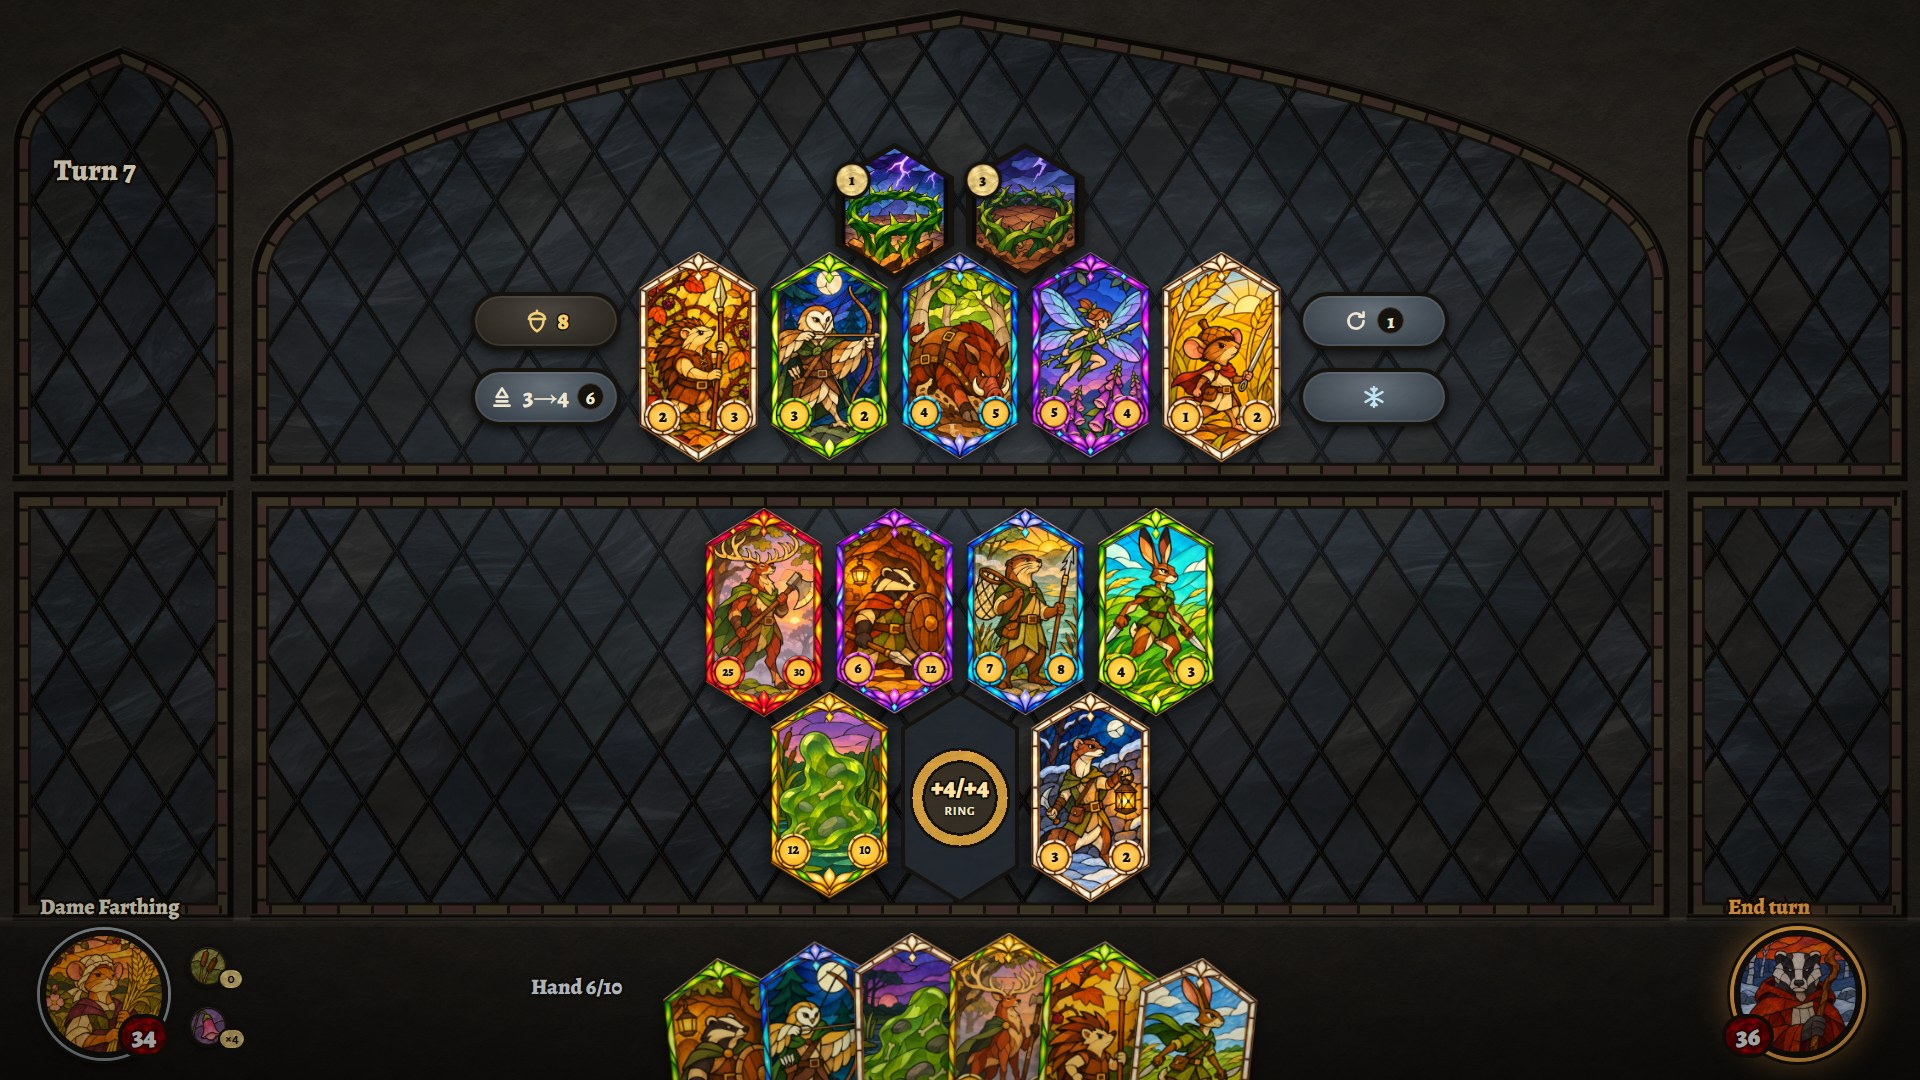
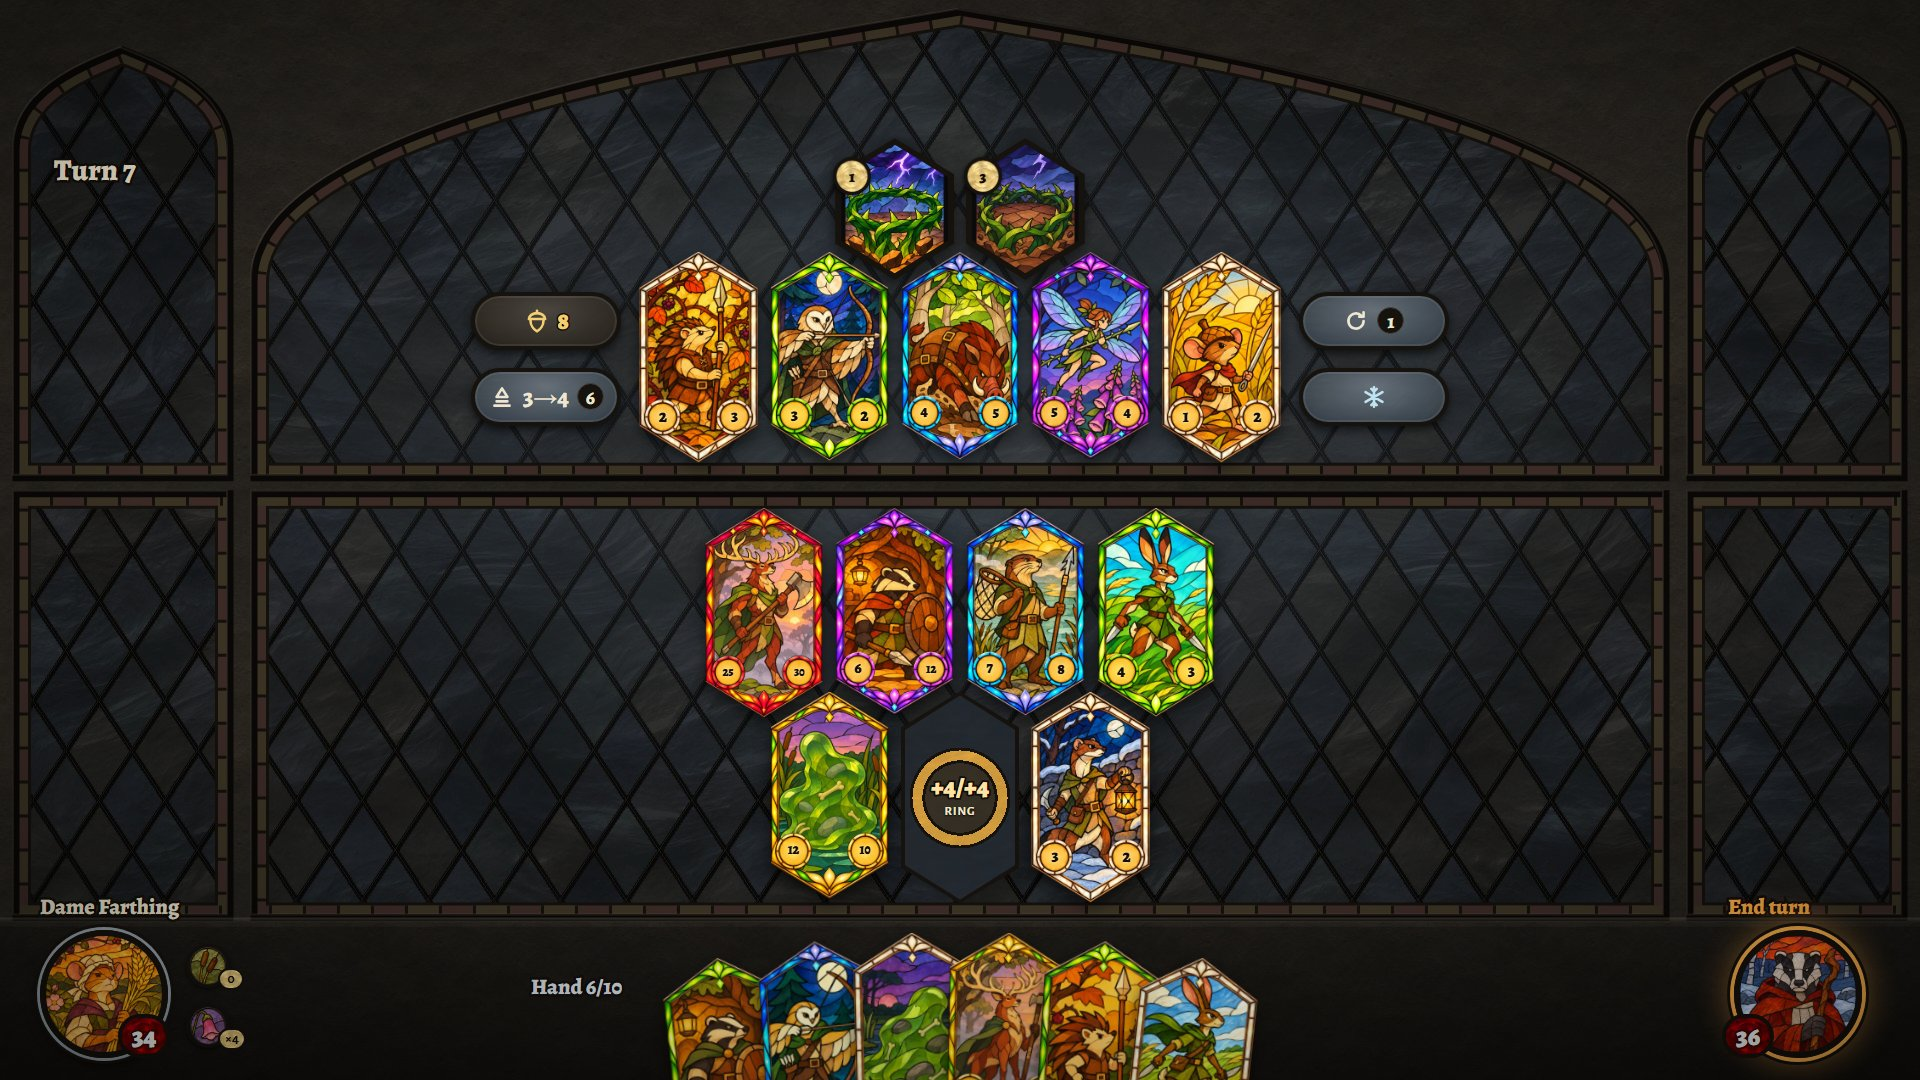
Card shape: record the 1.3 degree roof bug; mock-up spells match the cards' 31.3 degrees for now (owner, 16 Nov)
The owner: spells stay regular hexagons; the cards' roofs are off by 1.3 degrees, "a bug on the
card side, not on the spells side", to be fixed later. Until then the spells' slopes match the
cards' roofs (31.3, not the 28.7 first said), all six edges a roof edge long. Regular 30 is a switch.

Changed region(s): [[0.4375, 0.1222, 0.5625, 0.2444]]

diff --git a/docs/design/art-direction/mockups/recruit.html b/docs/design/art-direction/mockups/recruit.html
@@ -15,6 +15,7 @@
   <h1>Recruit screen</h1>
   <div class="grp">Card size <button data-k="size" data-v="a">212 px tall</button><button data-k="size" data-v="b">250 px tall (chosen)</button></div>
   <div class="grp">Spells <button data-k="spells" data-v="above">Row above</button><button data-k="spells" data-v="inline">In the shop row</button></div>
+  <div class="grp">Spell slopes <button data-k="sp" data-v="match">Match the cards' 31.3° (for now)</button><button data-k="sp" data-v="regular">Regular, 30°</button></div>
   <div class="grp">Leaderboard <button data-k="lb" data-v="0">Hidden</button><button data-k="lb" data-v="1">Shown</button></div>
   <div class="grp">Hover <button data-k="hover" data-v="">None</button><button data-k="hover" data-v="b0">Board card</button><button data-k="hover" data-v="s2">Shop card</button><button data-k="hover" data-v="s5">Spell</button></div>
   <div class="note">Real frames, recipe art and per-tier number discs. Stand-ins: the two spells (no spell frame yet), hover text, names and numbers. The art is the art session's test set, not decided units.</div>
@@ -25,7 +26,7 @@
 <script src="stage.js"></script>
 <script>
 const Q = new URLSearchParams(location.search);
-const S = { size: Q.get("size") || "b", spells: Q.get("spells") || "above", lb: Q.get("lb") || "0", hover: Q.get("hover") ?? "" };
+const S = { size: Q.get("size") || "b", spells: Q.get("spells") || "above", sp: Q.get("sp") || "match", lb: Q.get("lb") || "0", hover: Q.get("hover") ?? "" };
 
 // ---- the game state shown (stand-in numbers; the art is the recipe's test set) ----
 const SHOP = [
@@ -58,9 +59,13 @@ const HAND = [
 const BYID = Object.fromEntries([...SHOP, ...BOARD.filter(Boolean), ...HAND].map(c => [c.id, c]));
 
 // ---- geometry: everything follows the card height H ----
-function geom(H, above) {
+function geom(H, above, match) {
   const W = H * 0.56, g = 12, sg = 28;            // gap between cards; extra gap before in-line spells
-  const SW = W, SH = W / (Math.sqrt(3) / 2);       // spells above the shop: regular hexes the units' width (owner, 15 Nov)
+  // spells above the shop: regular hexes the units' width (owner, 15 Nov). The cards' roofs slope at 31.3°, not a
+  // regular hexagon's 30°: a bug on the card side, to be fixed in the frames (owner, 16 Nov). Until then the spell
+  // matches them: its slopes are the cards' roofs (0.17 H deep over half a width) and all six edges are that long.
+  const roof = 0.17 * H, edge = Math.hypot(W / 2, roof);
+  const SW = W, SH = match ? 2 * roof + edge : W / (Math.sqrt(3) / 2), SS = match ? roof / SH : 0.25;
   // how much of a hand card stands above the screen's edge; with spells above, it gives way so the spell row
   // stays clear of the arch (spell tops at y 48 or lower)
   let handShow = 0.7 * H;
@@ -76,11 +81,11 @@ function geom(H, above) {
   const shopW = above ? 5 * W + 4 * g : 7 * W + 5 * g + sg;
   const shopL = 960 - shopW / 2;
   const sideW = 214, cL = 16 + sideW + 24, cR = 1904 - sideW - 24, ys = Math.max(shopTop + 30, 90);
-  return { H, W, g, sg, SH, SW, ys, above, handTop, sill, boardTop, boardBot, T0, T1, shopTop, shopBot, shopL, shopW, cL, cR, sideW };
+  return { H, W, g, sg, SH, SW, SS, ys, above, handTop, sill, boardTop, boardBot, T0, T1, shopTop, shopBot, shopL, shopW, cL, cR, sideW };
 }
 
 function render() {
-  const H = S.size === "b" ? 250 : 212, G = geom(H, S.spells === "above"), st = document.getElementById("stage");
+  const H = S.size === "b" ? 250 : 212, G = geom(H, S.spells === "above", S.sp === "match"), st = document.getElementById("stage");
   st.innerHTML = `<div id="field"></div><div id="light"></div>` + stone(G);
   const cards = [];
   const put = (c, x, y) => { const el = Cards.make({ ...c, h: H }); place(el, x, y); st.append(el); cards.push(el); return el; };
@@ -92,7 +97,7 @@ function render() {
     SHOP.slice(0, 5).forEach(c => { put(c, x, G.shopTop); x += G.W + G.g; });
     SHOP.slice(5).forEach((c, k) => {
       const gx = G.shopL + (k + 2) * (G.W + G.g) - G.g / 2, bottom = G.shopTop + 0.17 * H - 8; // as the board's back row, mirrored
-      const el = Cards.make({ ...c, spell: "hex", h: G.SH }); place(el, gx - G.SW / 2, bottom - G.SH); st.append(el); cards.push(el);
+      const el = Cards.make({ ...c, spell: "hex", h: G.SH, aspect: G.SW / G.SH, shoulder: G.SS }); place(el, gx - G.SW / 2, bottom - G.SH); st.append(el); cards.push(el);
     });
   } else SHOP.forEach((c, i) => { if (i === 5) x += G.sg; put(c, x, G.shopTop); x += G.W + G.g; });
   const bw = 150, bxL = G.shopL - 18 - bw, bxR = G.shopL + G.shopW + 18, by1 = G.shopTop + H / 2 - 66, by2 = by1 + 76;
@@ -128,7 +133,7 @@ function render() {
   st.append(html(`<div id="vig"></div>`));
 
   hoverDetail(st, cards, BYID, G, S.hover, (c, big) =>
-    ({ h: c.spell && G.above ? big * 0.56 / (Math.sqrt(3) / 2) : big, spell: c.spell ? (G.above ? "hex" : true) : false }));
+    ({ h: c.spell && G.above ? big * G.SH / H : big, aspect: G.SW / G.SH, shoulder: G.SS, spell: c.spell ? (G.above ? "hex" : true) : false }));
 }
 
 startPage(S, render);

diff --git a/docs/design/art-direction/mockups/card.js b/docs/design/art-direction/mockups/card.js
@@ -13,7 +13,8 @@
   const pct = (x, y) => `${(x / U.w * 100).toFixed(3)}% ${(y / U.h * 100).toFixed(3)}%`;
   // the card's outer outline (frame-lab/art-space.md)
   const OUTLINE = [[280, 0], [560, 170], [560, 830], [280, 1000], [0, 830], [0, 170]];
-  const HEX_CLIP = "polygon(50% 0%,100% 25%,100% 75%,50% 100%,0% 75%,0% 25%)";
+  // a hex with its shoulders at s (a fraction of its height) from the top and bottom; s = 0.25 is a regular hexagon
+  const hexClip = s => `polygon(50% 0%,100% ${100 * s}%,100% ${100 - 100 * s}%,50% 100%,0% ${100 - 100 * s}%,0% ${100 * s}%)`;
 
   async function load() {
     const d = window.CARD_DATA; // assets/card-data.js, made by tools/art/mockups/prep_assets.py
@@ -36,9 +37,11 @@
   }
 
   // spell: true (the unit's tall 0.56 hex) or "hex": a regular hexagon, width = height x sqrt(3)/2 (owner, 15 Nov:
-// "inherit the width from the normal cards, but the height of a regular hexagon"). Pass h = unit width / (sqrt(3)/2).
-  function make({ tier, art, attack, health, h, spell = false, cost = null, id = "", hurt = false }) {
-    const w = spell === "hex" ? h * Math.sqrt(3) / 2 : h * U.w / U.h;
+  // "inherit the width from the normal cards, but the height of a regular hexagon"). Pass h = unit width / (sqrt(3)/2).
+  // aspect and shoulder bend it to match the cards' roofs until the frames are fixed (owner, 16 Nov; see recruit.html).
+  function make({ tier, art, attack, health, h, spell = false, cost = null, id = "", hurt = false,
+                  aspect = Math.sqrt(3) / 2, shoulder = 0.25 }) {
+    const w = spell === "hex" ? h * aspect : h * U.w / U.h;
     const el = document.createElement("div");
     el.className = "card" + (spell ? " spell" + (spell === "hex" ? " hexsp" : "") : "");
     el.dataset.tier = tier;
@@ -48,12 +51,13 @@
     const img = document.createElement("div");
     img.className = "art";
     img.style.backgroundImage = `url(${art})`;
-    img.style.clipPath = spell === "hex" ? HEX_CLIP : spell ? C.outlineClip : C.artClip;
+    img.style.clipPath = spell === "hex" ? hexClip(shoulder) : spell ? C.outlineClip : C.artClip;
     el.append(img);
     if (spell) {
       // STAND-IN: there is no spell frame yet. A plain lead outline and a cost disc.
       const lead = document.createElement("div");
       lead.className = "spell-lead";
+      if (spell === "hex") lead.style.clipPath = hexClip(shoulder);
       el.append(lead);
       if (cost !== null) {
         const c = document.createElement("span");

diff --git a/docs/design/art-direction/mockups/card.css b/docs/design/art-direction/mockups/card.css
@@ -14,7 +14,6 @@
   background:url(assets/ui/rd-cream.png) center/112% auto,#e8dcc0;border:3px solid #16120e;box-shadow:0 2px 4px rgba(0,0,0,.6)}
 /* STAND-IN spell as a regular hex the units' width (owner, 15 Nov): the same lead outline and cost disc */
 .card.hexsp .art{inset:4.5% 5.2%;background-size:cover;background-position:center 45%}
-.card.hexsp .spell-lead{clip-path:polygon(50% 0%,100% 25%,100% 75%,50% 100%,0% 75%,0% 25%)}
 .card.hexsp .cost{left:-2%;top:27%;width:32%}
 /* STAND-IN: Health below its full value in a fight, in red as Battlegrounds does. Not designed yet. */
 .card .num.hurt{color:#9e0f0a;text-shadow:0 0 .12em rgba(255,240,200,.9)}

diff --git a/docs/workstreams/glass-mockups.md b/docs/workstreams/glass-mockups.md
@@ -59,6 +59,8 @@ Not on the card, because the frames don't have them and the owner asked for Atta
 
    **Then, on their size (owner, 15 Nov 2026):** "The card size of them should be exactly the same as the width, but they should be regular. So they should inherit the width from the normal cards, but the height of a regular hexagon. ... I want a regular hexagon of the same width, so it tiles is the exact same." Done: each spell is a regular hexagon exactly a unit's width (height = width / (√3/2), about 0.65 of a unit's height), sitting in the notch between two units with the same gap as the board's back row. A regular hexagon's sides slope at 30°, the units' roofs at 31.3°, so the gap narrows very slightly towards the point. To fit the taller spell row the hand gives way: at 250 px it shows a little under half a card.
 
+   **Card-shape bug, and spells matched to it for now (owner, 16 Nov 2026):** asked whether "the slightly off angle" meant the spells should slope like the cards' roofs, the owner said: "No. I want them to be the regular hexagons. Like our existing borders are slightly off. I'll fix them in future. For now, it just needs to be noted that our existing shapes are off by that, however many degrees, the 1.3 degrees. And that's a bug on the card side, not on the spells side. I guess until that point, we can have it match the inverse, like the upper and like the, we can make them slightly like less. They can be, instead of being, they could be like 27, oh, sorry, 28.7 or something, I guess. I don't know, to make that match." Recorded as a known bug in [frame-lab/art-space.md](../design/art-direction/frame-lab/art-space.md). The spells now slope at the cards' 31.3°, with all six edges as long as a card's roof edge, so the gap to the units is even; "Regular, 30°" is a switch for when the frames are fixed. *[Editor note: matching means 31.3°, not 28.7°.]*
+
    **Chosen (owner, 16 Nov 2026):** asked to pick 212 or 250 px, the owner first said: "Can you explain what the difference between the two sizes are again? Sorry. I think the sizing that matches the length of the slightly off angle is correct." Then, sending the 250 px screenshot with these spells ([recruit-250-spells-above.jpg](../design/art-direction/mockups/shots/recruit-250-spells-above.jpg)), the owner said: "I like this image, if that answers the question." So cards are 250 px tall, and the spells are regular hexes the units' width, as above. The page now opens on this version; the other sizes and layouts stay as switches.
 
 4. **Fight screen (owner, 16 Nov 2026).** Asked which screen next, the owner said: "Fight screen". Built from rules already set, with the same window, cards and heroes as the recruit screen:

diff --git a/docs/design/art-direction/frame-lab/art-space.md b/docs/design/art-direction/frame-lab/art-space.md
@@ -19,6 +19,8 @@ Machine-readable: [card-0.56.svg](card-0.56.svg) (both polygons), [mask-window-0
 
 ## Angles
 
+> **Known bug in the card shape (owner, 16 Nov 2026).** The card's roofs slope at 31.3°. A regular hexagon's slope at 30°, and the shop's spells are regular hexagons the units' width. The owner, on the 1.3° difference: "No. I want them to be the regular hexagons. Like our existing borders are slightly off. I'll fix them in future. For now, it just needs to be noted that our existing shapes are off by that, however many degrees, the 1.3 degrees. And that's a bug on the card side, not on the spells side. I guess until that point, we can have it match the inverse, like the upper and like the, we can make them slightly like less. They can be, instead of being, they could be like 27, oh, sorry, 28.7 or something, I guess. I don't know, to make that match." So the card outline and the locked frames are off by 1.3°, to be fixed in the frames later. Until then the mock-ups' spells are bent to match the cards' 31.3° (see `../mockups/README.md`). *[Editor note: "28.7" is 30° less 1.3°, which would double the mismatch. Matching the cards means the spells' slopes go to 31.3°, and the owner was told so.]*
+
 | | Roof slope from horizontal | Angle at the points | Angle at the shoulders |
 |---|---|---|---|
 | Card | 31.3° | 117.5° | 121.3° |

diff --git a/docs/design/art-direction/mockups/README.md b/docs/design/art-direction/mockups/README.md
@@ -8,7 +8,7 @@ Open `recruit.html`, `fight.html` or `cards.html` straight from disk in a browse
 
 | Shot | What it shows |
 |---|---|
-| [recruit-250-spells-above.jpg](shots/recruit-250-spells-above.jpg) | **The chosen version (owner, 16 Nov).** Spells in a row above the shop as regular hexes the units' width, each over the gap beside the middle unit; the 5 units centred (owner, 15 Nov). Cards 250 px tall |
+| [recruit-250-spells-above.jpg](shots/recruit-250-spells-above.jpg) | **The chosen version (owner, 16 Nov).** Spells in a row above the shop as hexes the units' width, their slopes matched to the cards' 31.3° until the frames' 1.3° bug is fixed (a switch shows true regular hexes), each over the gap beside the middle unit; the 5 units centred (owner, 15 Nov). Cards 250 px tall |
 | [recruit-212-spells-above.jpg](shots/recruit-212-spells-above.jpg) | The same with cards 212 px tall |
 | [recruit-250-spells-above-hover.jpg](shots/recruit-250-spells-above-hover.jpg) | Spells above, a spell hovered, leaderboard shown |
 | [recruit-212.jpg](shots/recruit-212.jpg) | Spells in the shop row (the first layout), cards 212 px tall (the first mock-up's card height) |
